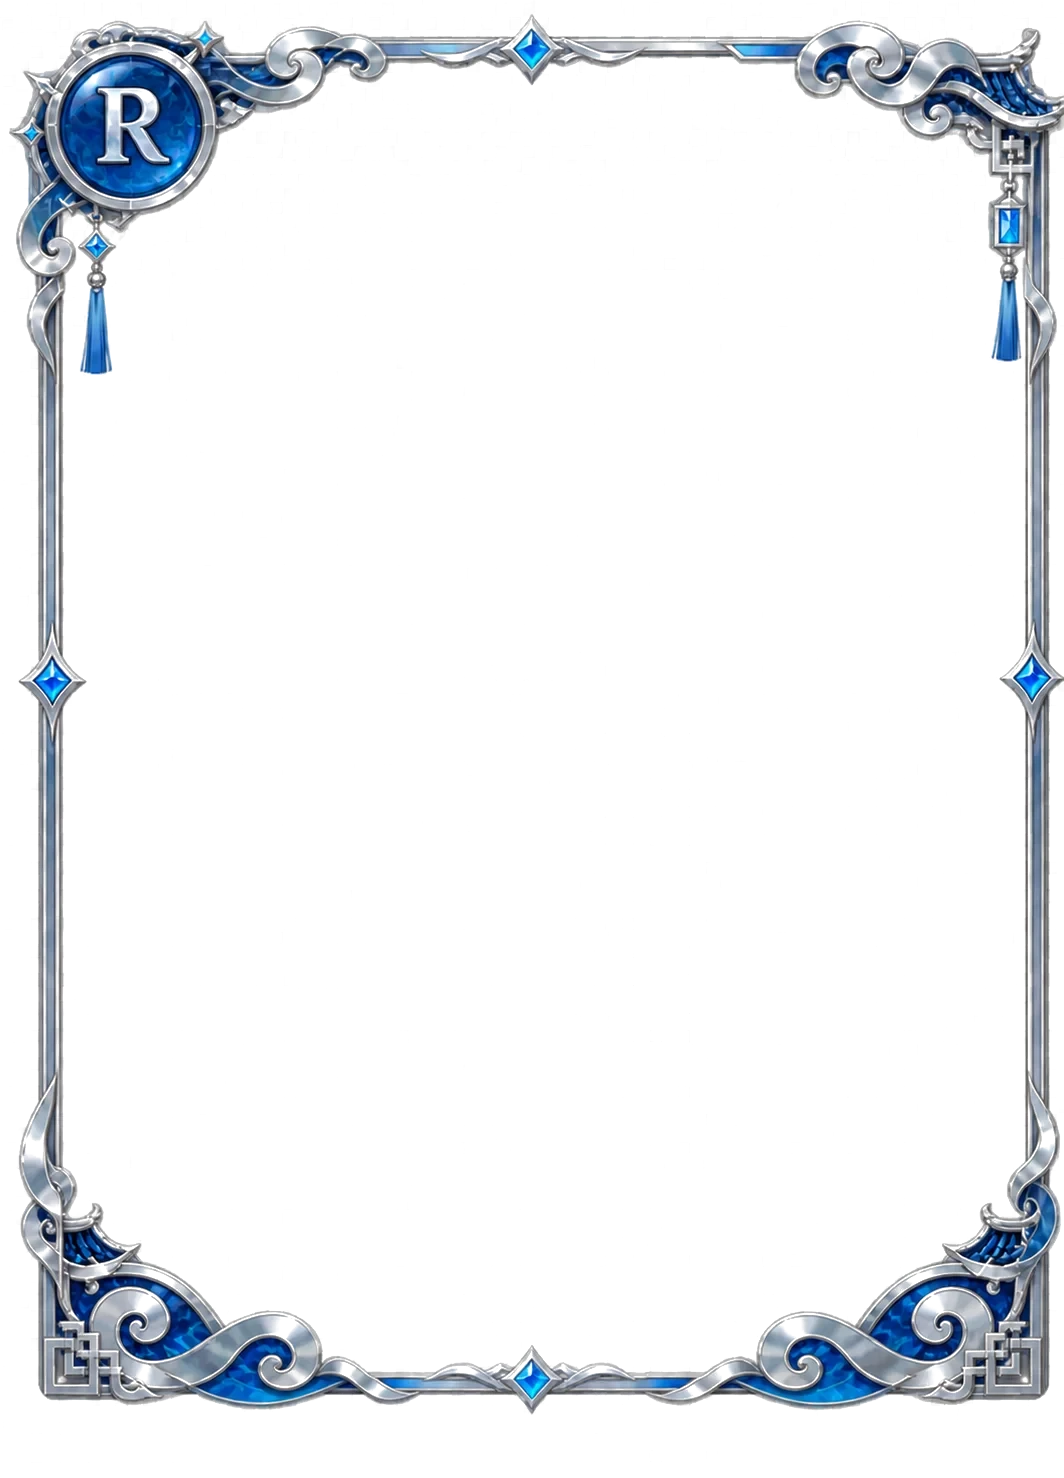
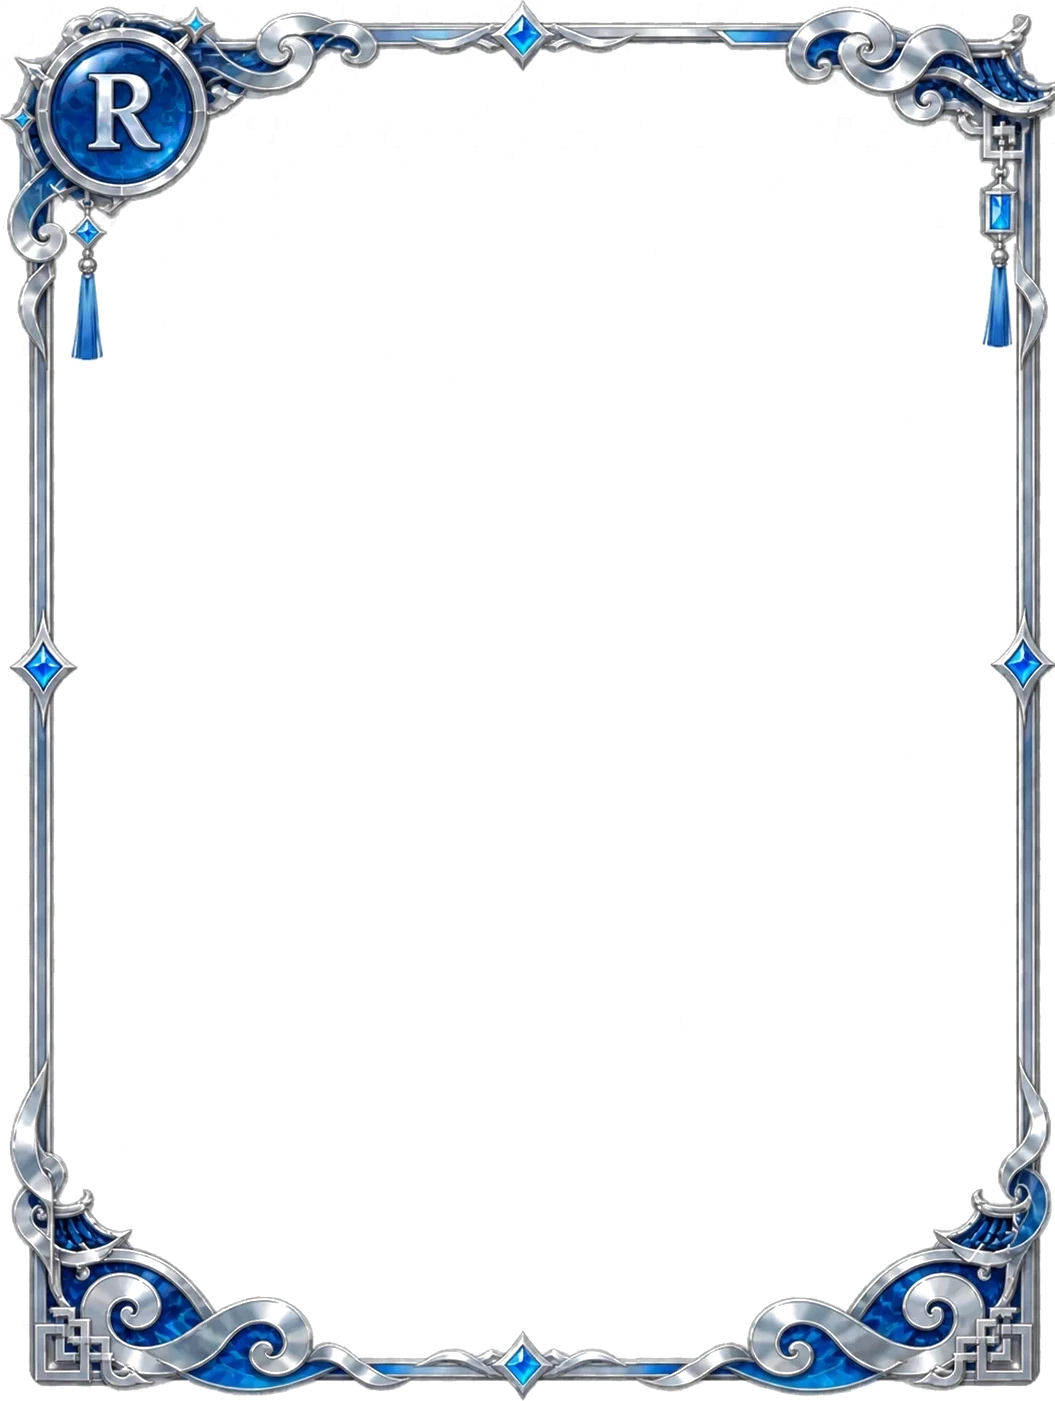
Fix frame white-edge gap and redesign the ten-pull reveal
- The R/SR/SSR frame art had a transparent margin around the actual
  card silhouette; stretching it to fill the box left the cream
  background showing through at the rounded corners as an ugly
  white edge. Cropped all three frames tight to their opaque content
  bounding box so the artwork's own edge now aligns with the box.
- Switched .card-front and .pull-tile to a relative border-radius
  (9%/6.5%) matching the frame art's own corner curve instead of a
  fixed px value that didn't scale with element size.
- Ten-pull layout: fixed 5-column x 2-row grid instead of an
  auto-fill wrap, with a wider container so each card reads clearly
  instead of shrinking into a dense small grid.
- SSR pulls now always render last (the finale slot), enter with a
  delayed bounce-in (scale overshoot past 1.12x before settling) and
  trigger their own sparkle burst on completion, instead of appearing
  inline with the same plain fade as R/SR results.

diff --git a/src/style.css b/src/style.css
@@ -250,6 +250,7 @@
     background:
       radial-gradient(circle at 50% 18%, rgba(217,154,43,.2), transparent 55%),
       linear-gradient(180deg, #fffdf7 0%, var(--paper) 100%);
+    border-radius: 9%/6.5%;
     box-shadow: 0 18px 40px rgba(0,0,0,.4);
     opacity:0; pointer-events:none;
     padding:2.5rem 2rem 2.2rem;
@@ -297,21 +298,21 @@
 
   .ten-pull-results{
     display:grid;
-    grid-template-columns: repeat(auto-fill, minmax(7rem,1fr));
-    gap:.6rem;
+    grid-template-columns: repeat(5, minmax(0,1fr));
+    gap: clamp(.5rem, 1.4vw, 1rem);
     width:100%;
-    max-width:34rem;
+    max-width:52rem;
   }
   .pull-tile{
     position:relative;
     aspect-ratio: 5/7;
-    border-radius:12px;
+    border-radius: 9%/6.5%;
     display:flex; flex-direction:column; align-items:center; justify-content:center;
-    padding:1.6rem .6rem .9rem;
+    padding:14% 8% 8%;
     text-align:center;
     opacity:0;
-    transform:translateY(6px) scale(.94);
-    animation: pull-tile-in .35s ease-out forwards;
+    transform:translateY(10px) scale(.9);
+    animation: pull-tile-in .4s ease-out forwards;
     box-shadow: 0 6px 14px rgba(0,0,0,.25);
   }
   @keyframes pull-tile-in{ to{ opacity:1; transform:none; } }
@@ -319,18 +320,32 @@
     .pull-tile{ animation:none; opacity:1; transform:none; }
   }
   .pull-tile[data-rarity="SSR"]{
-    box-shadow: 0 0 16px rgba(217,154,43,.55), 0 6px 14px rgba(0,0,0,.25);
+    animation: pull-tile-ssr-in .55s cubic-bezier(.3,1.6,.4,1) forwards;
+    box-shadow: 0 0 24px rgba(217,154,43,.65), 0 6px 14px rgba(0,0,0,.25);
+  }
+  @keyframes pull-tile-ssr-in{
+    0%{ opacity:0; transform: translateY(10px) scale(.7); }
+    70%{ opacity:1; transform: scale(1.12); }
+    100%{ opacity:1; transform: scale(1); }
+  }
+  @media (prefers-reduced-motion: reduce){
+    .pull-tile[data-rarity="SSR"]{ animation:none; opacity:1; transform:none; }
   }
   .pull-tile .pull-rarity{
     display:inline-block;
-    font-size:.6rem; font-weight:800; letter-spacing:.08em;
-    padding:.1rem .4rem; border-radius:999px;
-    margin-bottom:.3rem;
+    font-size:.68rem; font-weight:800; letter-spacing:.08em;
+    padding:.15rem .5rem; border-radius:999px;
+    margin-bottom:.35rem;
   }
   .pull-tile[data-rarity="R"] .pull-rarity{ background:rgba(42,32,21,.08); color:var(--ink-dim); }
   .pull-tile[data-rarity="SR"] .pull-rarity{ background:rgba(61,127,140,.15); color:var(--teal); }
   .pull-tile[data-rarity="SSR"] .pull-rarity{ background:rgba(217,154,43,.2); color:#8a5a13; }
-  .pull-tile .pull-name{ font-size:.72rem; font-weight:700; color:var(--ink); line-height:1.25; }
+  .pull-tile .pull-name{ font-size:.86rem; font-weight:700; color:var(--ink); line-height:1.25; }
+  @media (max-width: 40rem){
+    .ten-pull-results{ grid-template-columns: repeat(5, minmax(0,1fr)); gap:.4rem; }
+    .pull-tile .pull-name{ font-size:.62rem; }
+    .pull-tile .pull-rarity{ font-size:.55rem; padding:.1rem .35rem; }
+  }
   .draw-btn[disabled]:hover{ transform:none; }
 
   .pool-note{ color: var(--ink-dim); font-size:.85rem; margin:0; }

diff --git a/src/main.js b/src/main.js
@@ -223,18 +223,29 @@ function doTenSpin() {
   spinBtn.disabled = true;
   tenSpinBtn.disabled = true;
 
-  const results = drawTenWithPity(currentPool);
+  const drawn = drawTenWithPity(currentPool);
+  // show non-SSR results first, SSR pull(s) last as the finale
+  const results = [
+    ...drawn.filter(s => s.rarity !== 'SSR'),
+    ...drawn.filter(s => s.rarity === 'SSR'),
+  ];
 
   drawCard.parentElement.hidden = true;
   tenPullResultsEl.innerHTML = '';
   tenPullResultsEl.hidden = false;
+
+  const reduced = window.matchMedia('(prefers-reduced-motion: reduce)').matches;
+  const nonSSRCount = results.filter(s => s.rarity !== 'SSR').length;
 
   results.forEach((store, i) => {
     const tile = document.createElement('div');
     tile.className = 'pull-tile';
     const tileRarity = store.rarity || 'R';
     tile.dataset.rarity = tileRarity;
-    tile.style.animationDelay = (i * 0.08) + 's';
+    const isFinaleSSR = tileRarity === 'SSR' && i >= nonSSRCount;
+    tile.style.animationDelay = reduced
+      ? '0s'
+      : (isFinaleSSR ? (nonSSRCount * 0.08 + 0.45 + (i - nonSSRCount) * 0.2) : (i * 0.08)) + 's';
     tile.style.backgroundImage =
       `url(${CARD_FRAMES[tileRarity]}), radial-gradient(circle at 50% 18%, rgba(217,154,43,.2), transparent 55%), linear-gradient(180deg, #fffdf7 0%, var(--paper) 100%)`;
     tile.style.backgroundSize = '100% 100%, auto, auto';
@@ -246,6 +257,9 @@ function doTenSpin() {
       <div class="pull-name">${store.name}</div>
     `;
     tenPullResultsEl.appendChild(tile);
+    if (isFinaleSSR && !reduced) {
+      tile.addEventListener('animationend', () => spark(tile), { once: true });
+    }
   });
 
   spinning = false;
